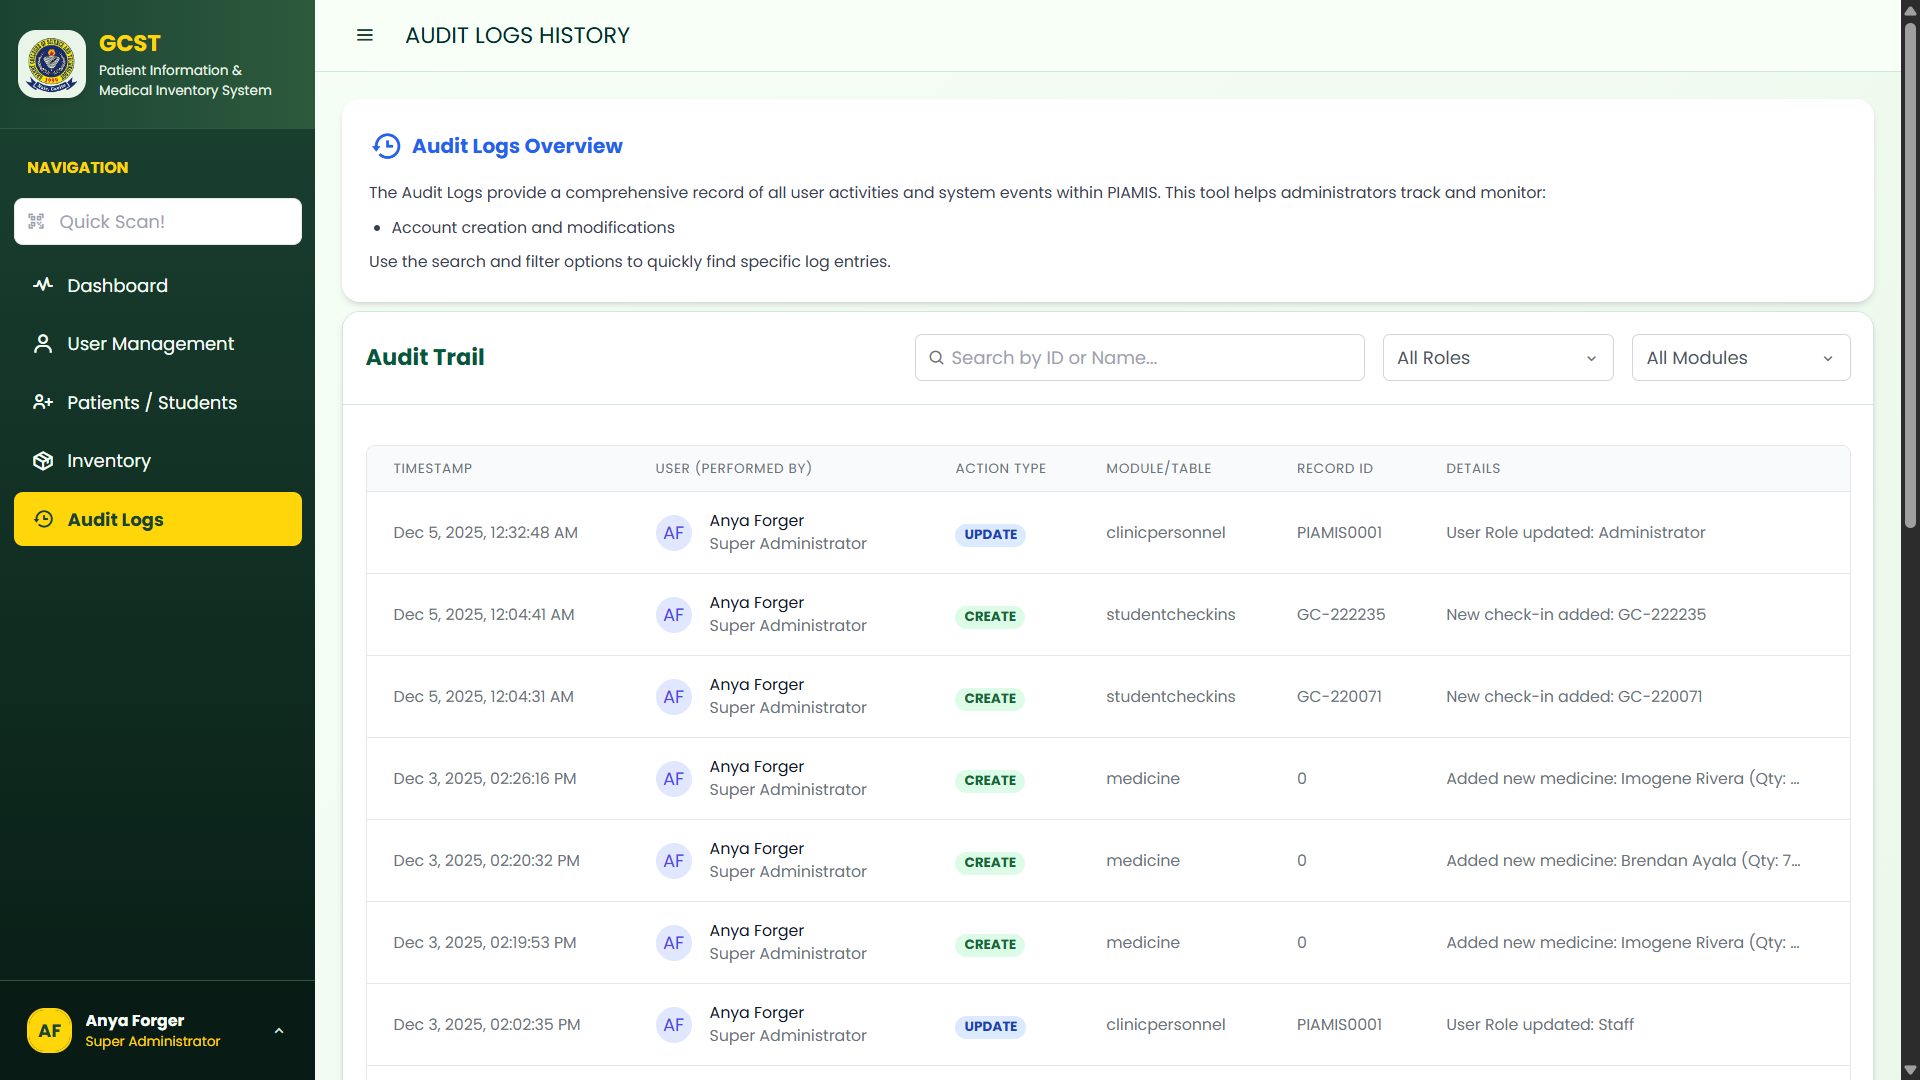
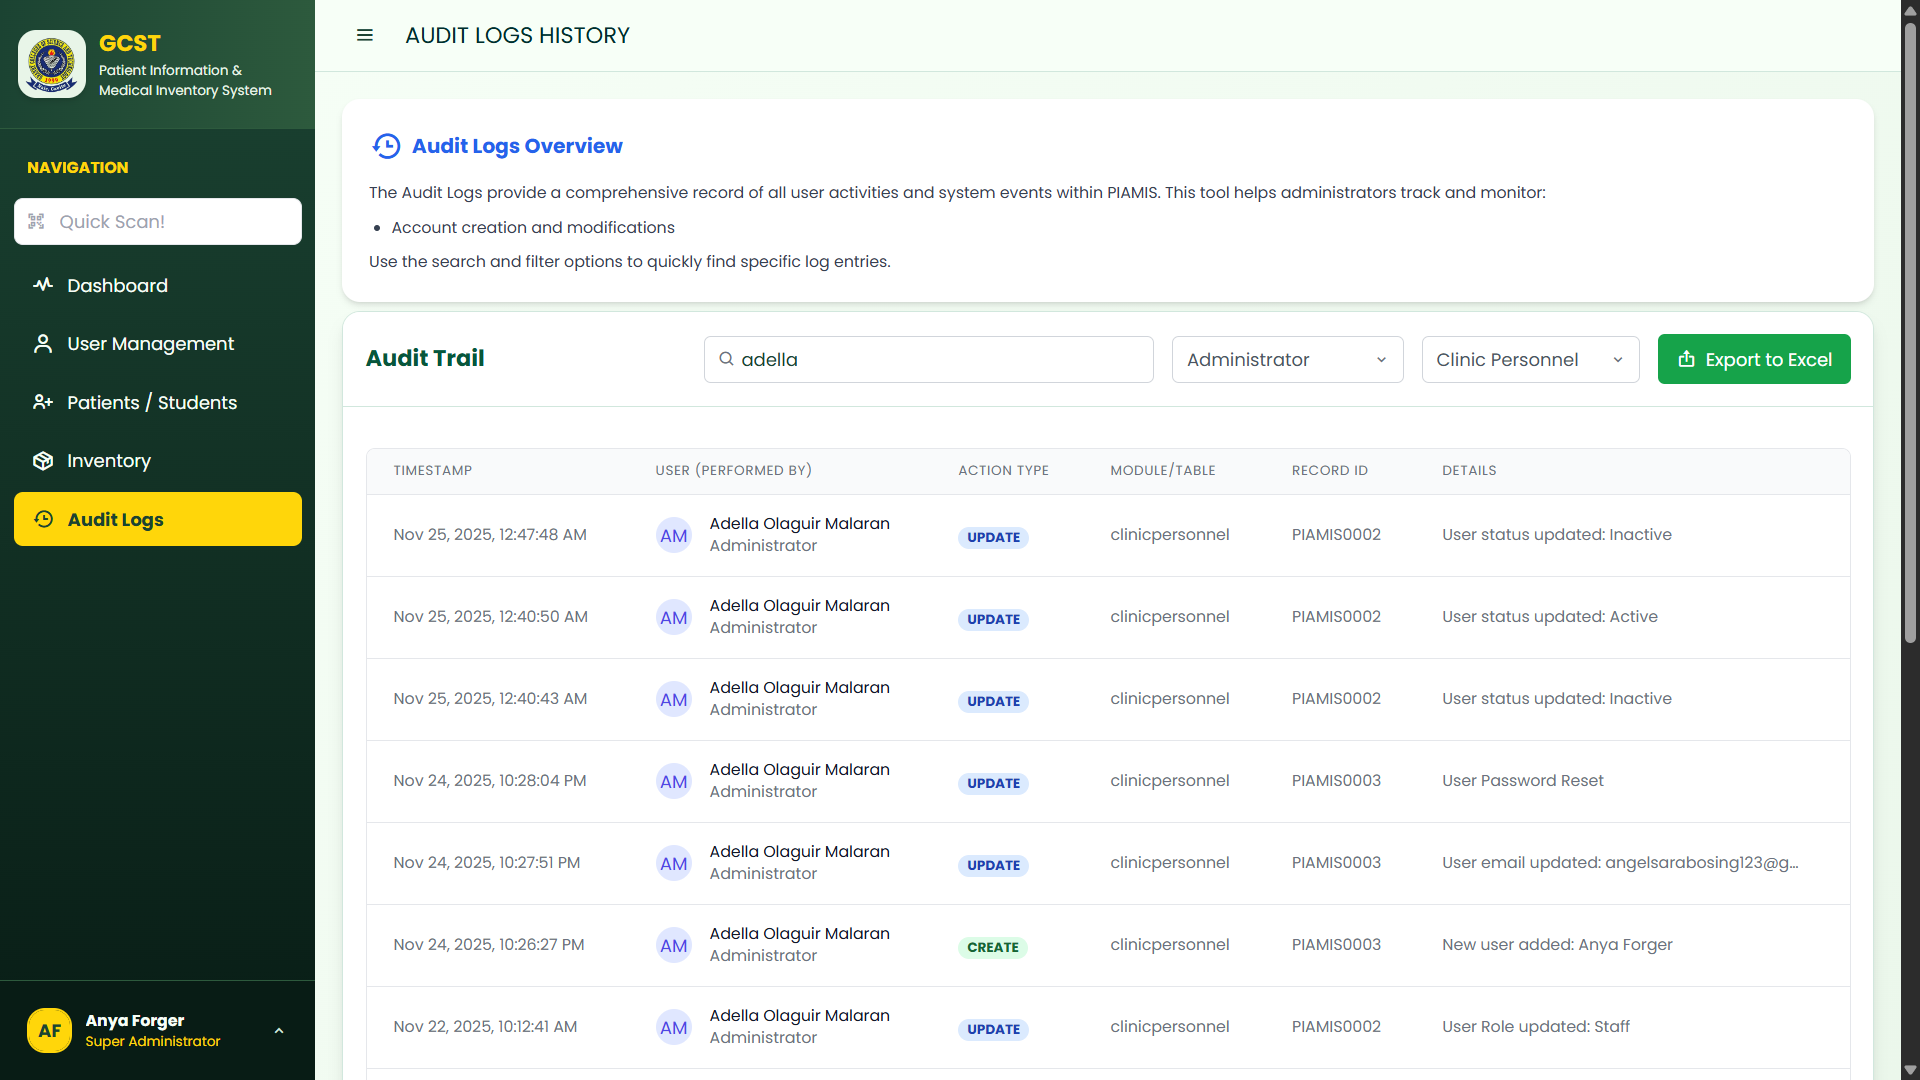
Dave: Audit Logs Export to Excel

diff --git a/components/UserGuide.php b/components/UserGuide.php
@@ -697,7 +697,7 @@ require_once '../Functions/Queries.php';
                             <span>Filter logs by roles and modules</span></li>
                         <li class="flex items-start">
                             <i class='bx bx-chevron-right text-primary-500 mt-1 mr-2 text-lg'></i>
-                            <span>Export logs for record-keeping</span></li>
+                            <span>Export logs to Excel for record-keeping</span></li>
                         <li class="flex items-start">
                             <i class='bx bx-chevron-right text-primary-500 mt-1 mr-2 text-lg'></i>
                             <span>Monitor system security and compliance</span></li>
